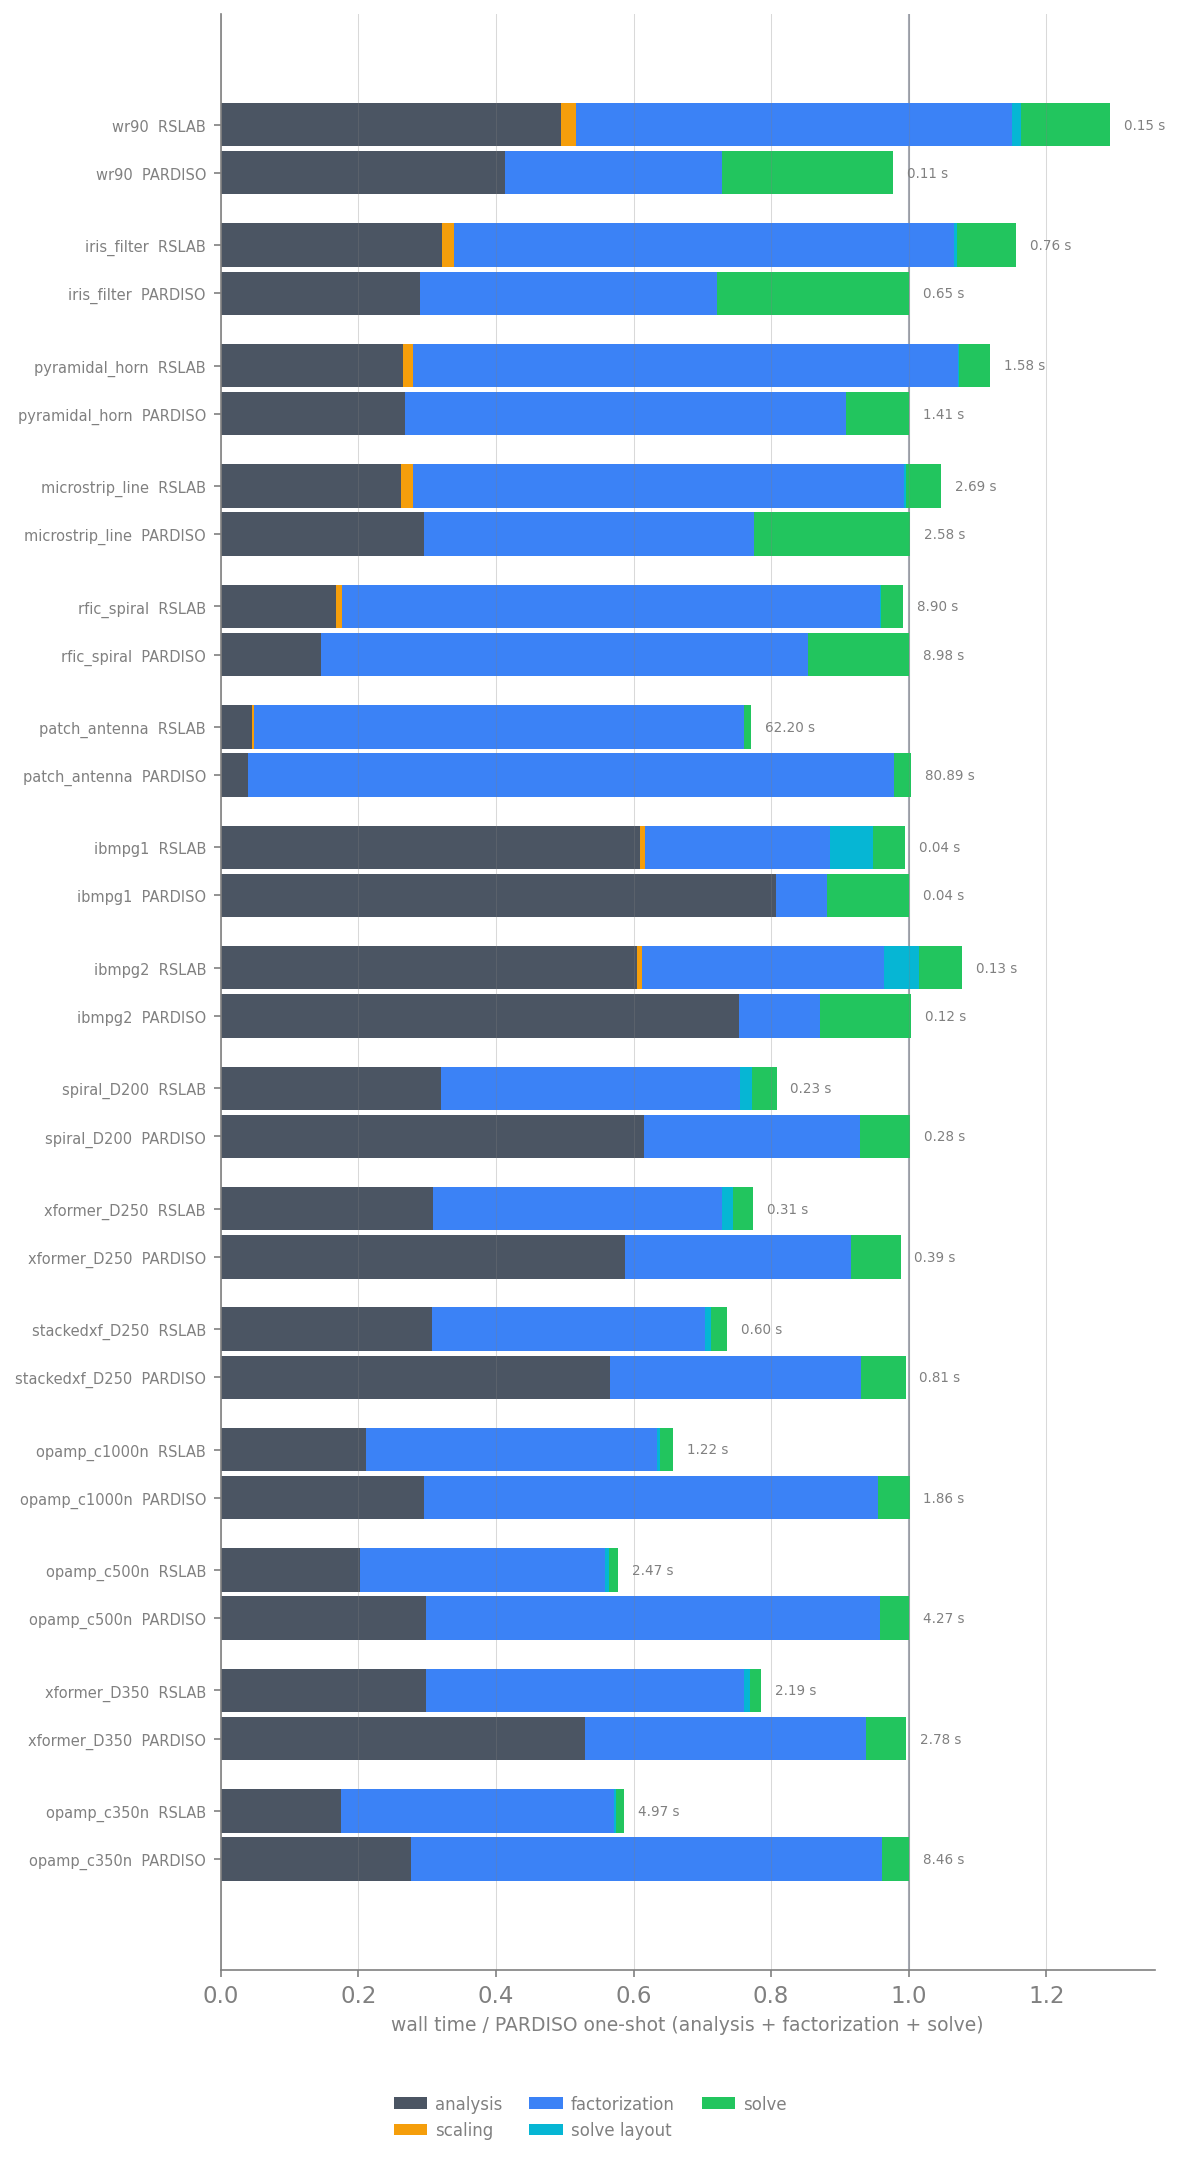
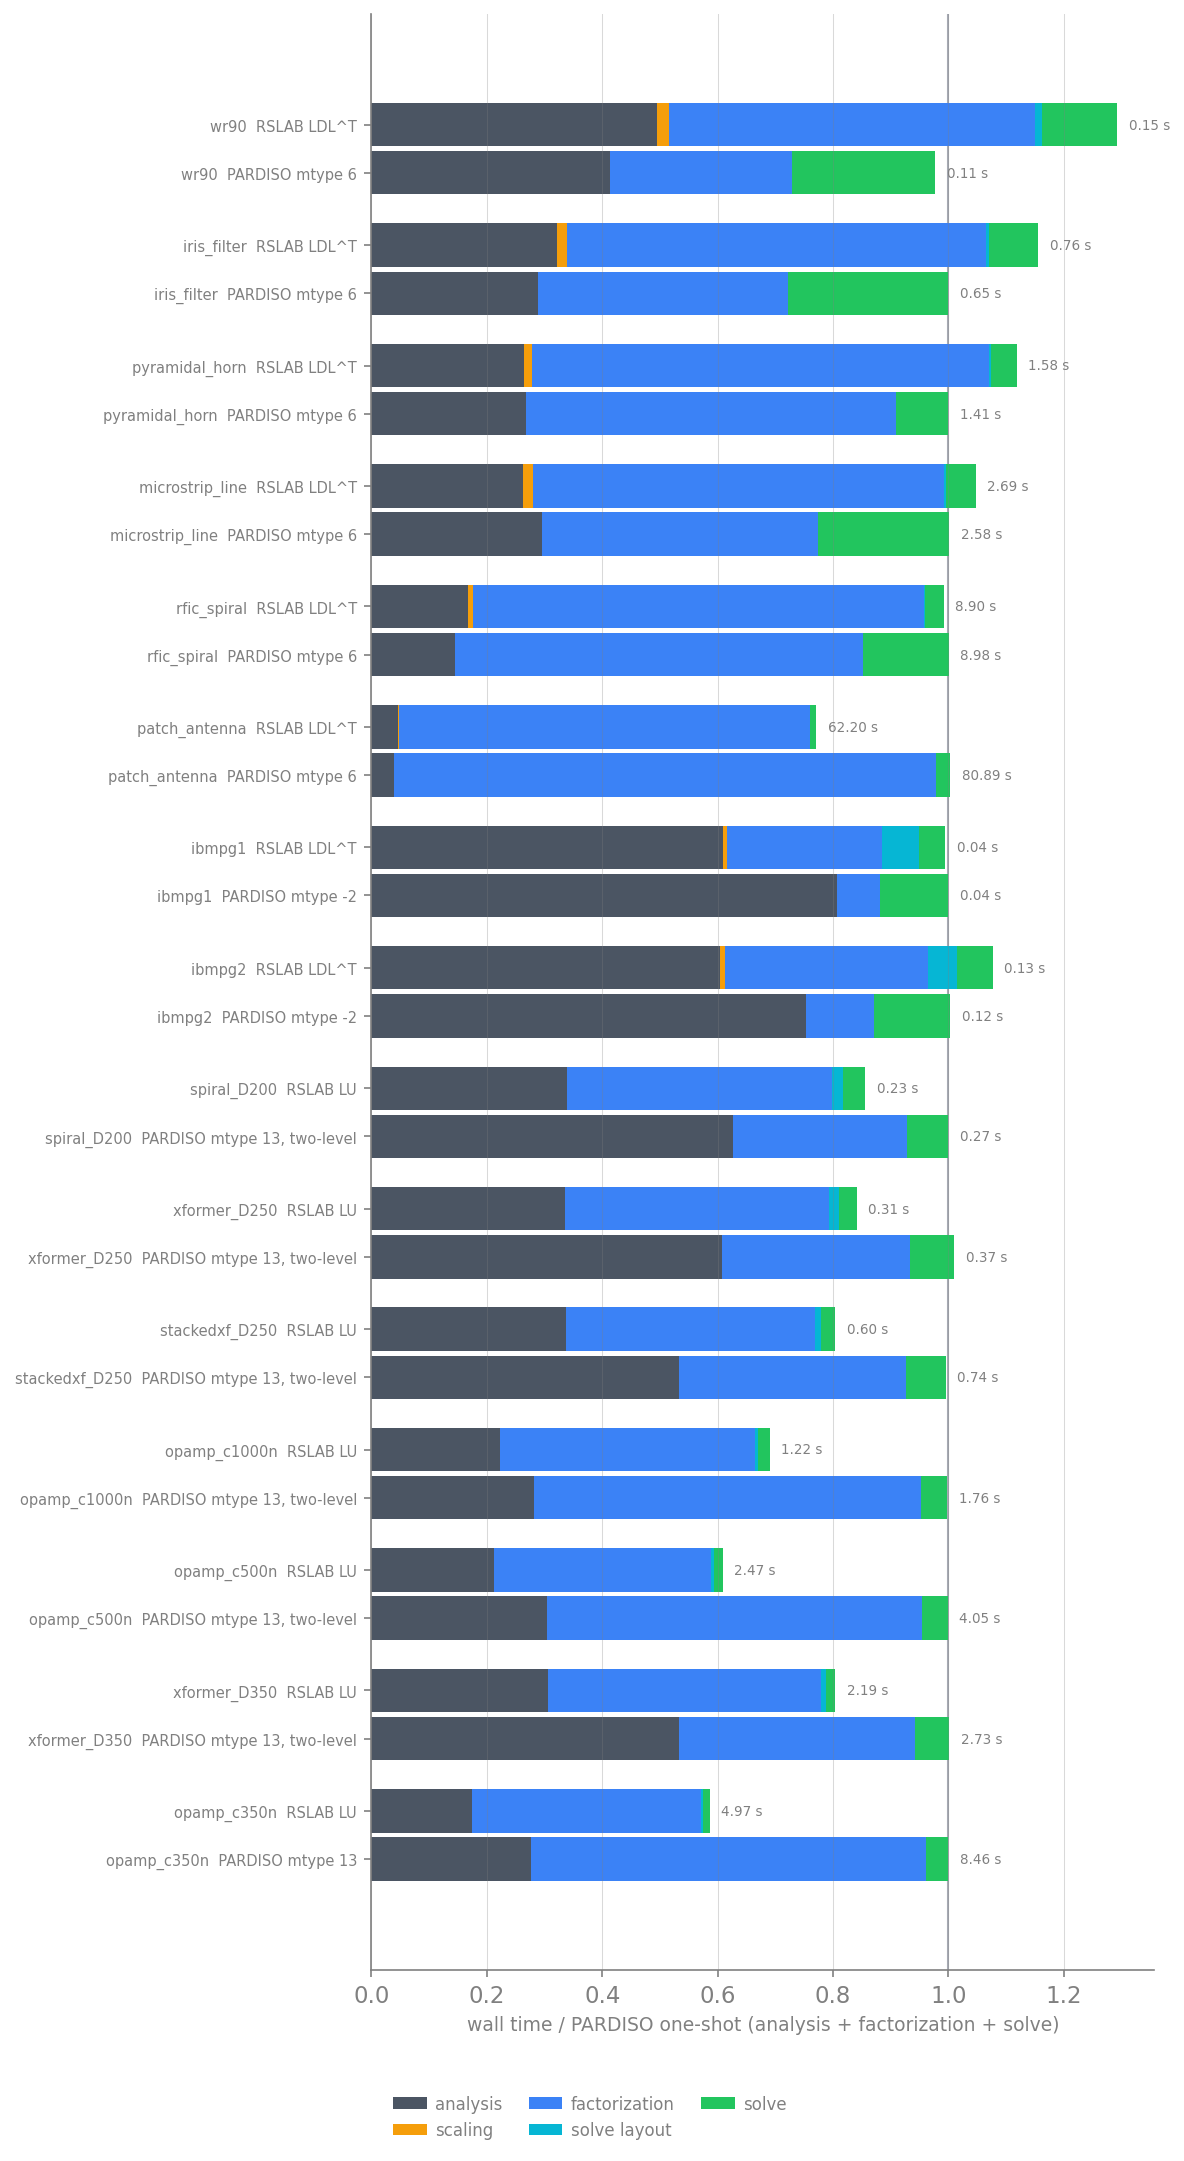
Rerun with PARDISO two-level; README table and PARDISO settings

diff --git a/README.md b/README.md
@@ -69,10 +69,14 @@ time relative to PARDISO (below 1 is faster), geomean per class:
 |---|:-:|:-:|:-:|:-:|
 | FEM curl-curl (6) | 1.35 | 1.38 | 0.34 | 1.05 |
 | power grid (2) | 3.97 | 4.28 | 0.43 | 1.06 |
-| MoM near field (7) | 0.91 | 0.85 | 0.36 | 0.70 |
-| circuit, KLU path (13) | 4.14 | 1.65 | 0.25 | 0.97 |
+| MoM near field (7) | 0.95 | 0.90 | 0.37 | 0.74 |
+| circuit, KLU path (13) | 4.76 | 1.83 | 0.30 | 1.12 |
 
-One-shot is analysis, factorization and solve.
+One-shot is analysis, factorization and solve. PARDISO runs `pardisoinit`'s
+defaults for its matrix type (parallel METIS), per system the faster of its
+classic and two-level factorization (`iparm(24)`). On MoM both perturb small
+pivots, PARDISO with `iparm(10) = 6` and RSLAB in preconditioner mode at
+1e-6.
 
 ![wall time per stage](docs/figures/wct_breakdown.png)
 
